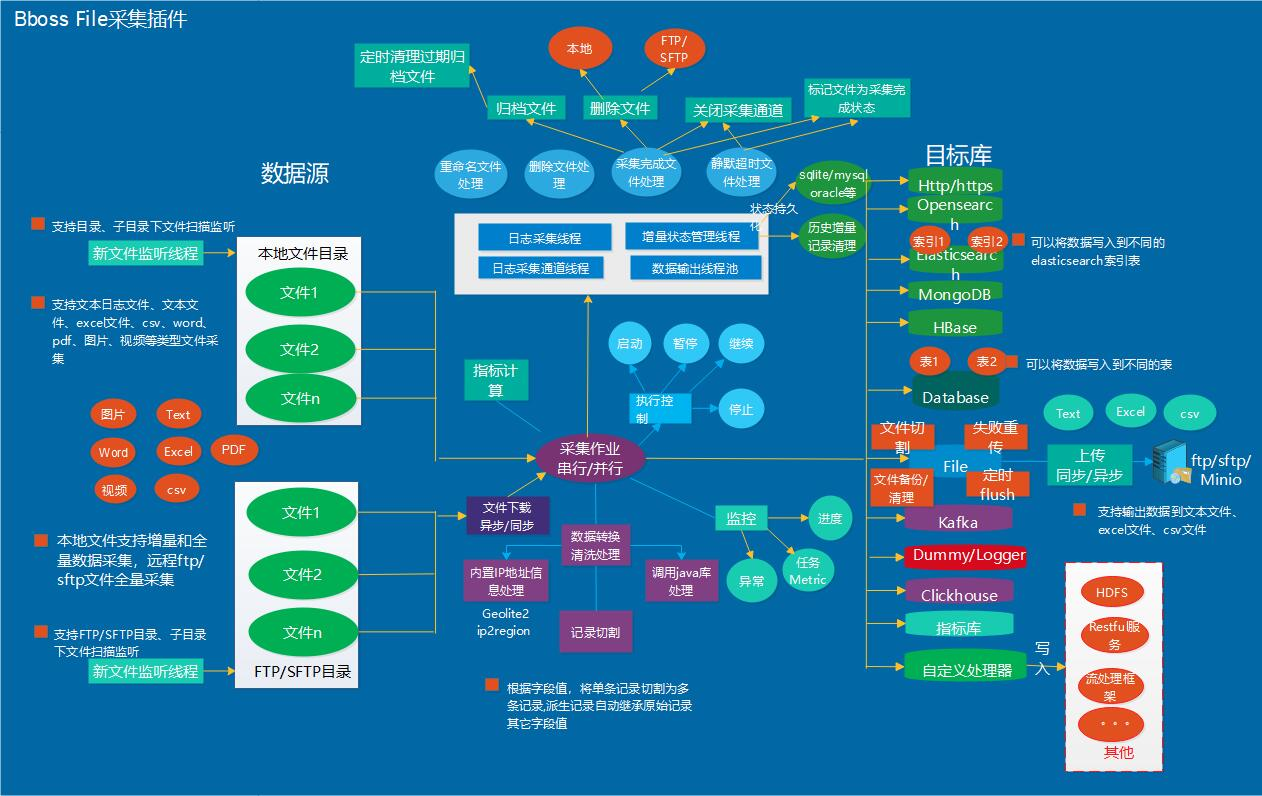
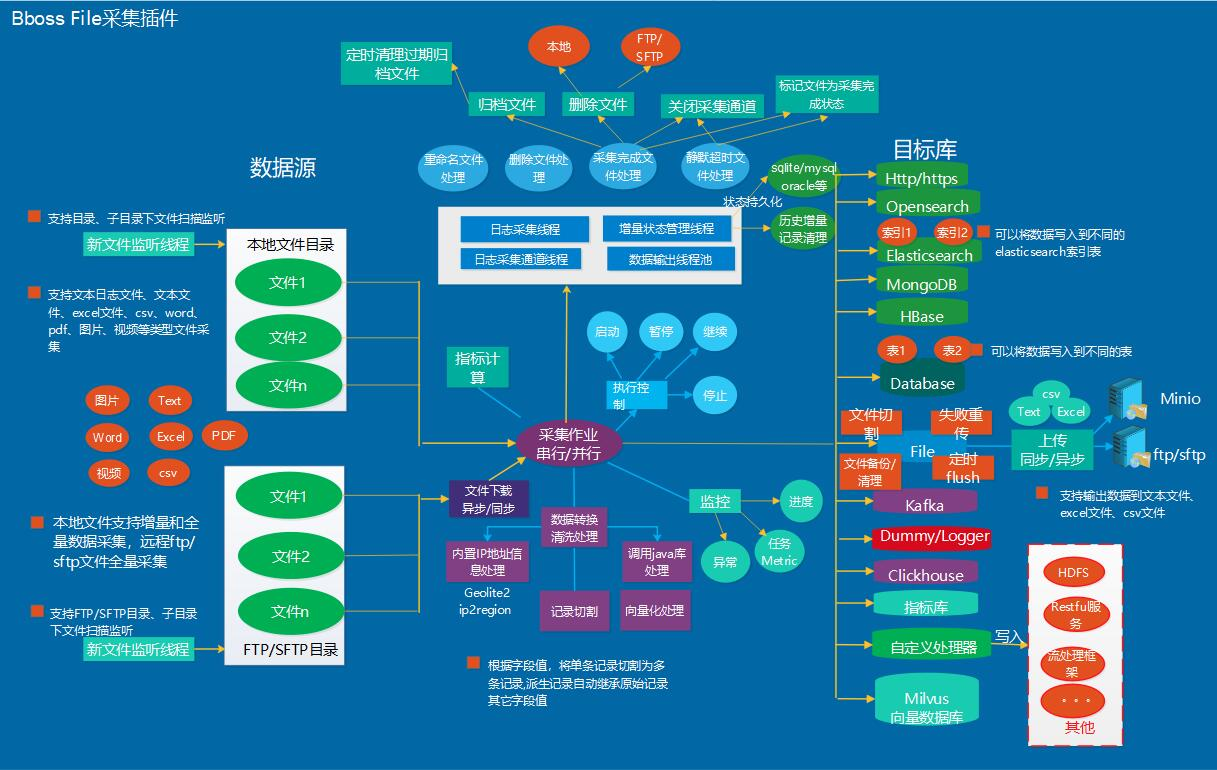
调整框架版本号为7.2.8

diff --git a/docs/README.md b/docs/README.md
@@ -3,7 +3,7 @@
 [bboss](https://esdoc.bbossgroups.com/#/README)基于Apache License开源协议，由开源社区bboss发起和维护，主要由以下三部分构成：
 
 - **Elasticsearch Highlevel Java Restclient** ， 一个高性能高兼容性的Elasticsearch/Opensearch java客户端框架
-- **数据采集同步ETL** ，一个基于java语言实现数据采集作业的强大ETL工具，提供丰富的输入插件和输出插件，可以基于插件规范轻松扩展新的输入插件和输出插件
+- **数据采集同步ETL** ，一个基于java语言实现数据采集作业的强大ETL工具，提供丰富的输入插件和输出插件，可以基于插件规范轻松扩展新的输入插件和输出插件；支持数据向量化处理
 - **流批一体化计算框架**，提供灵活的数据指标统计计算流批一体化处理功能的简易框架，可以结合数据采集同步ETL工具，实现数据流处理和批处理计算，亦可以独立使用；计算结果可以保存到各种关系数据库、分布式数据仓库Elasticsearch、Clickhouse等，特别适用于数据体量和规模不大的企业级数据分析计算场景，具有成本低、见效快、易运维等特点，助力企业降本增效。
 
 bboss采用模块化管理以上三部分，模块之间依赖关系如下：
